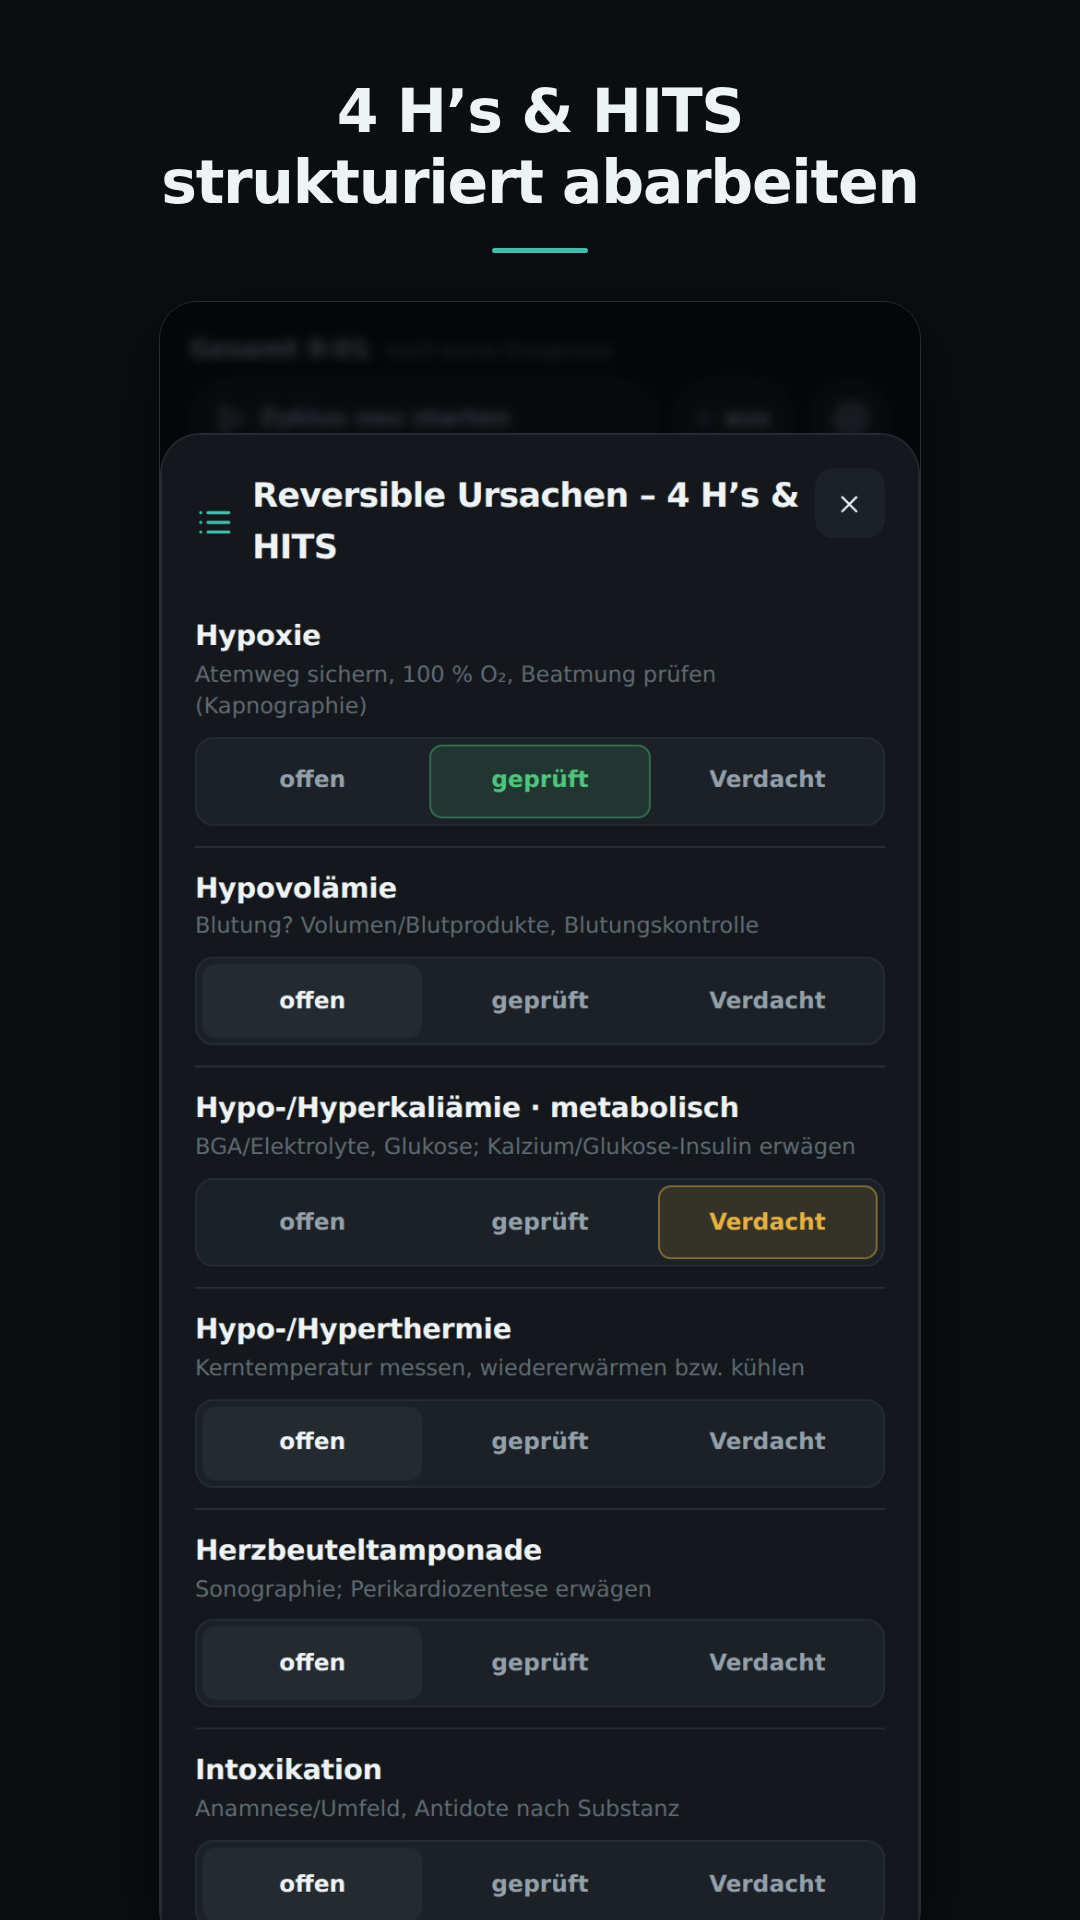
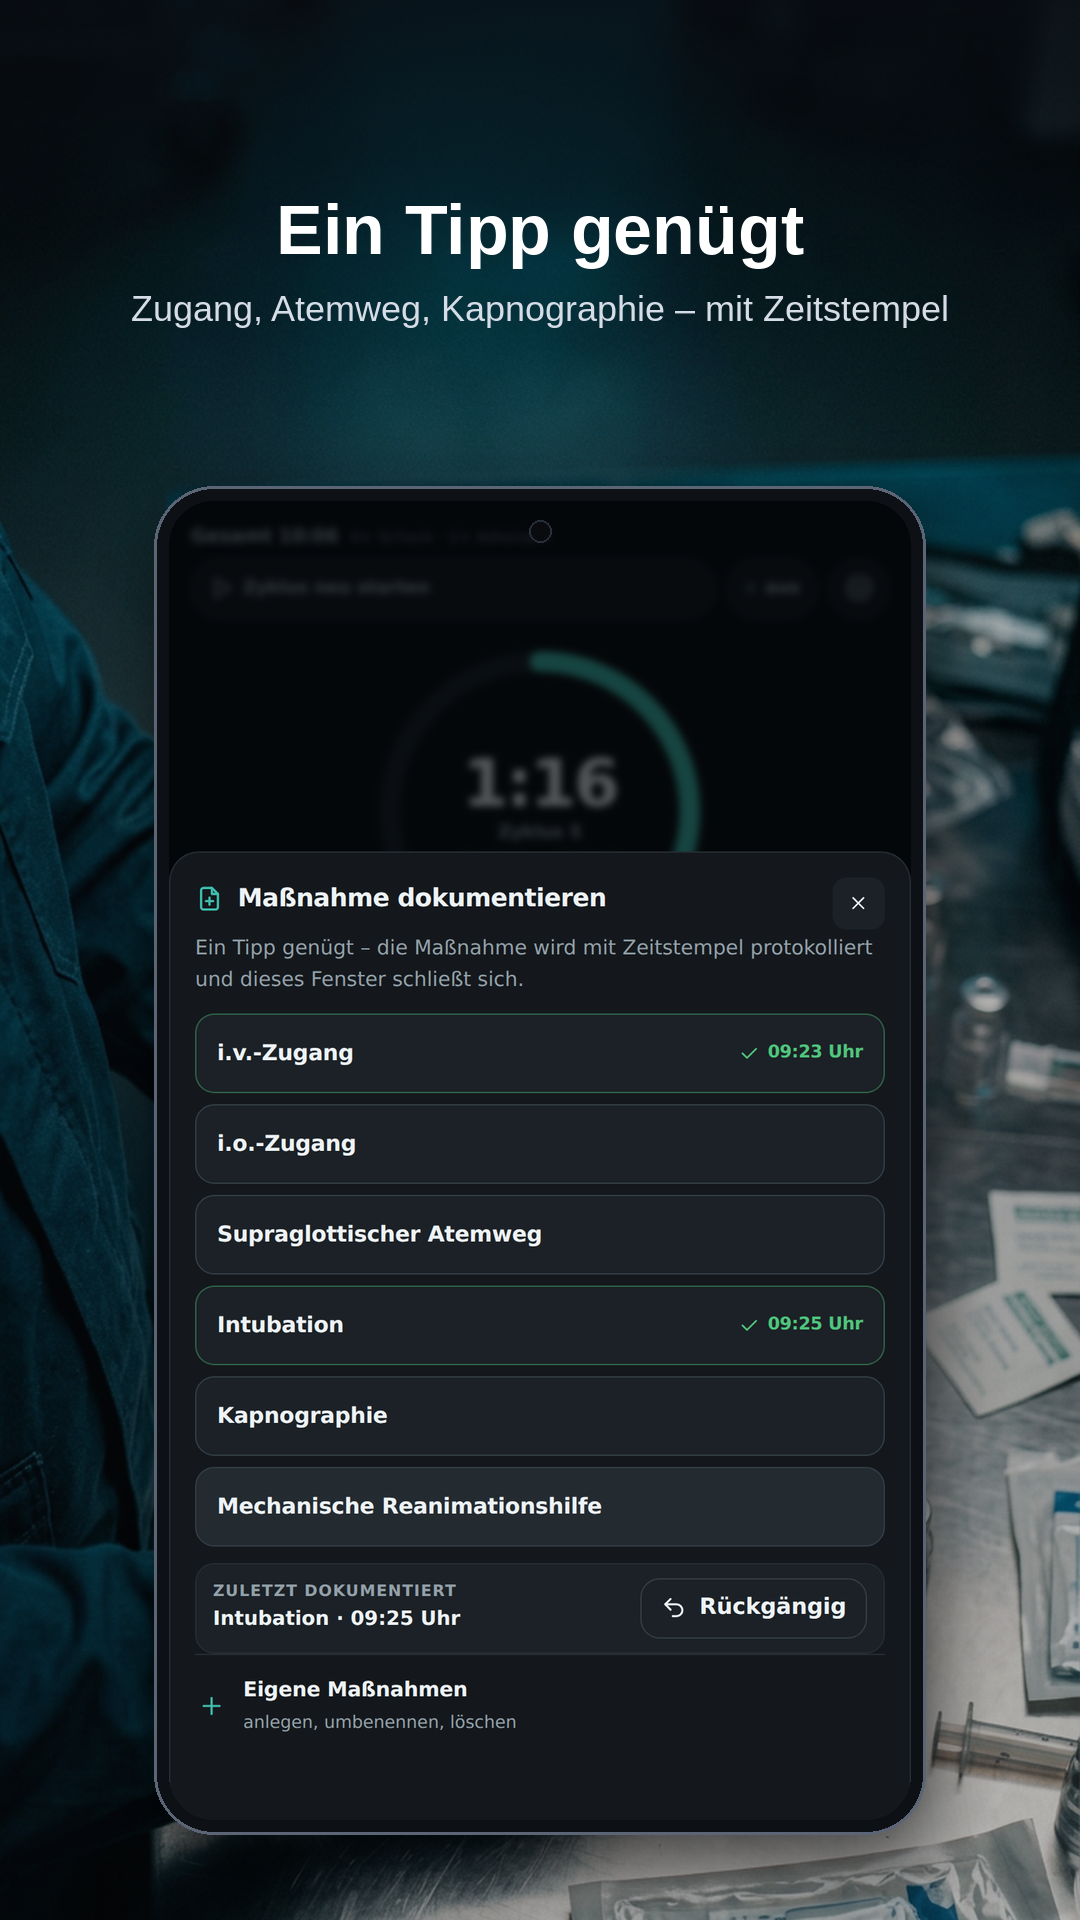
Store-Screenshots im Skill-Stil: App im Geraeterahmen vor Notfall-Fotos
Die fuenf Store-Screenshots entstehen jetzt ueber den Skill
'mercwerk-store-grafiken': die echte App in einem gezeichneten
Geraeterahmen vor einem kuehl-klinischen Foto (Rettungswagen,
Schockraum, Notfallwagen, Handschuhe, Nachteinsatz - erzeugt mit
Higgsfield AI), darueber Ueberschrift und Unterzeile. Das ersetzt die
acht schlichten Aufnahmen auf schwarzem Grund.

Gezeigt werden die staerksten Punkte inklusive der neuen Funktionen:
Zyklus mit Medikamenten-Status, 4H/HITS, Live-Protokoll, Massnahmen
mit Rueckgaengig, Bericht teilen.

Der Demo-Einsatz in der Konfiguration ist durchgehend chronologisch
aufgebaut - im Live-Protokoll sind die Zeiten lesbar, und ein
nachtraeglich eingeschobenes Adrenalin fiel dort sofort auf. Der letzte
Schock setzt Zyklus und Restzeit von selbst, nichts wird von Hand
gesetzt. Adrenalin steht auf 'faellig', Amiodaron kam nach dem
3. Schock - beides leitlinienkonform.

Konfiguration und Hintergruende liegen unter screenshot-quellen/, damit
sich die Bilder jederzeit reproduzieren lassen. scripts/store-grafiken.mjs
baut nur noch die Feature-Grafik; sie und das Logo bleiben unveraendert.

Claude-Session: https://claude.ai/code/session_016zZZsNYToJdXyRA4mCBj6E

diff --git a/docs/store-texte.md b/docs/store-texte.md
@@ -98,15 +98,28 @@ Alle Angaben ohne Gewähr. Maßgeblich sind die geltenden Leitlinien und die Ent
 | App-Icon 512 × 512 | `icons/icon-512.png` |
 | Feature-Grafik 1024 × 500 | `docs/store-grafiken/feature-grafik-1024x500.png` |
 | Feature-Illustration (Quelle) | `docs/store-grafiken/feature-hintergrund.png` |
-| Screenshots 1080 × 1920 (8 Stück) | `docs/store-grafiken/screenshot-1…8-1080x1920.png` |
+| Screenshots 1080 × 1920 (5 Stück) | `docs/store-grafiken/screenshot-1…5-1080x1920.png` |
+| Screenshot-Quellen | `docs/store-grafiken/screenshot-quellen/` |
 
 Neu erzeugen lassen sie sich mit:
 
 ```
-python3 -m http.server 8931 &
-node scripts/screenshots.mjs
-node scripts/store-grafiken.mjs
+node scripts/store-grafiken.mjs          # nur die Feature-Grafik
+
+python3 -m http.server 8931 &            # Store-Screenshots
+node  ~/.claude/skills/mercwerk-store-grafiken/scripts/aufnehmen.mjs \
+      docs/store-grafiken/screenshot-quellen/konfig.json
+python3 ~/.claude/skills/mercwerk-store-grafiken/scripts/storegrafik.py \
+      docs/store-grafiken/screenshot-quellen/konfig.json --nur screenshots
 ```
+
+Die Store-Screenshots zeigen die echte App in einem gezeichneten Geräterahmen
+vor einem Foto aus der Notfallmedizin (kühl und klinisch, erzeugt mit
+Higgsfield AI; die Hintergründe liegen unter `screenshot-quellen/`). Der
+Demo-Einsatz in `konfig.json` ist bewusst durchgehend chronologisch
+aufgebaut – das Live-Protokoll ist im Bild zu lesen, und dort fiele jede
+Unstimmigkeit auf. Personenbezogene Daten gibt es nicht: die App erfasst
+keine, und der Berichtsname ist ein Übungsname.
 
 Die Feature-Grafik ist bewusst hell und erzählend – zwei reanimieren, eine
 dritte Person dokumentiert am Handy – nach dem Vorbild etablierter

diff --git a/docs/veroeffentlichung.md b/docs/veroeffentlichung.md
@@ -39,7 +39,7 @@ und prüf, dass die Seite wirklich erscheint – Google prüft das auch.
    - App-Symbol: `icons/icon-512.png`
    - Feature-Grafik: `docs/store-grafiken/feature-grafik-1024x500.png`
    - Telefon-Screenshots: die sieben Dateien aus `docs/store-grafiken/`
-     (`screenshot-1…8-1080x1920.png`)
+     (`screenshot-1…5-1080x1920.png`)
    - Kategorie: **Medizin**
 4. Datenschutz-URL eintragen:
    `https://marqewi.github.io/CPR/datenschutz.html`
